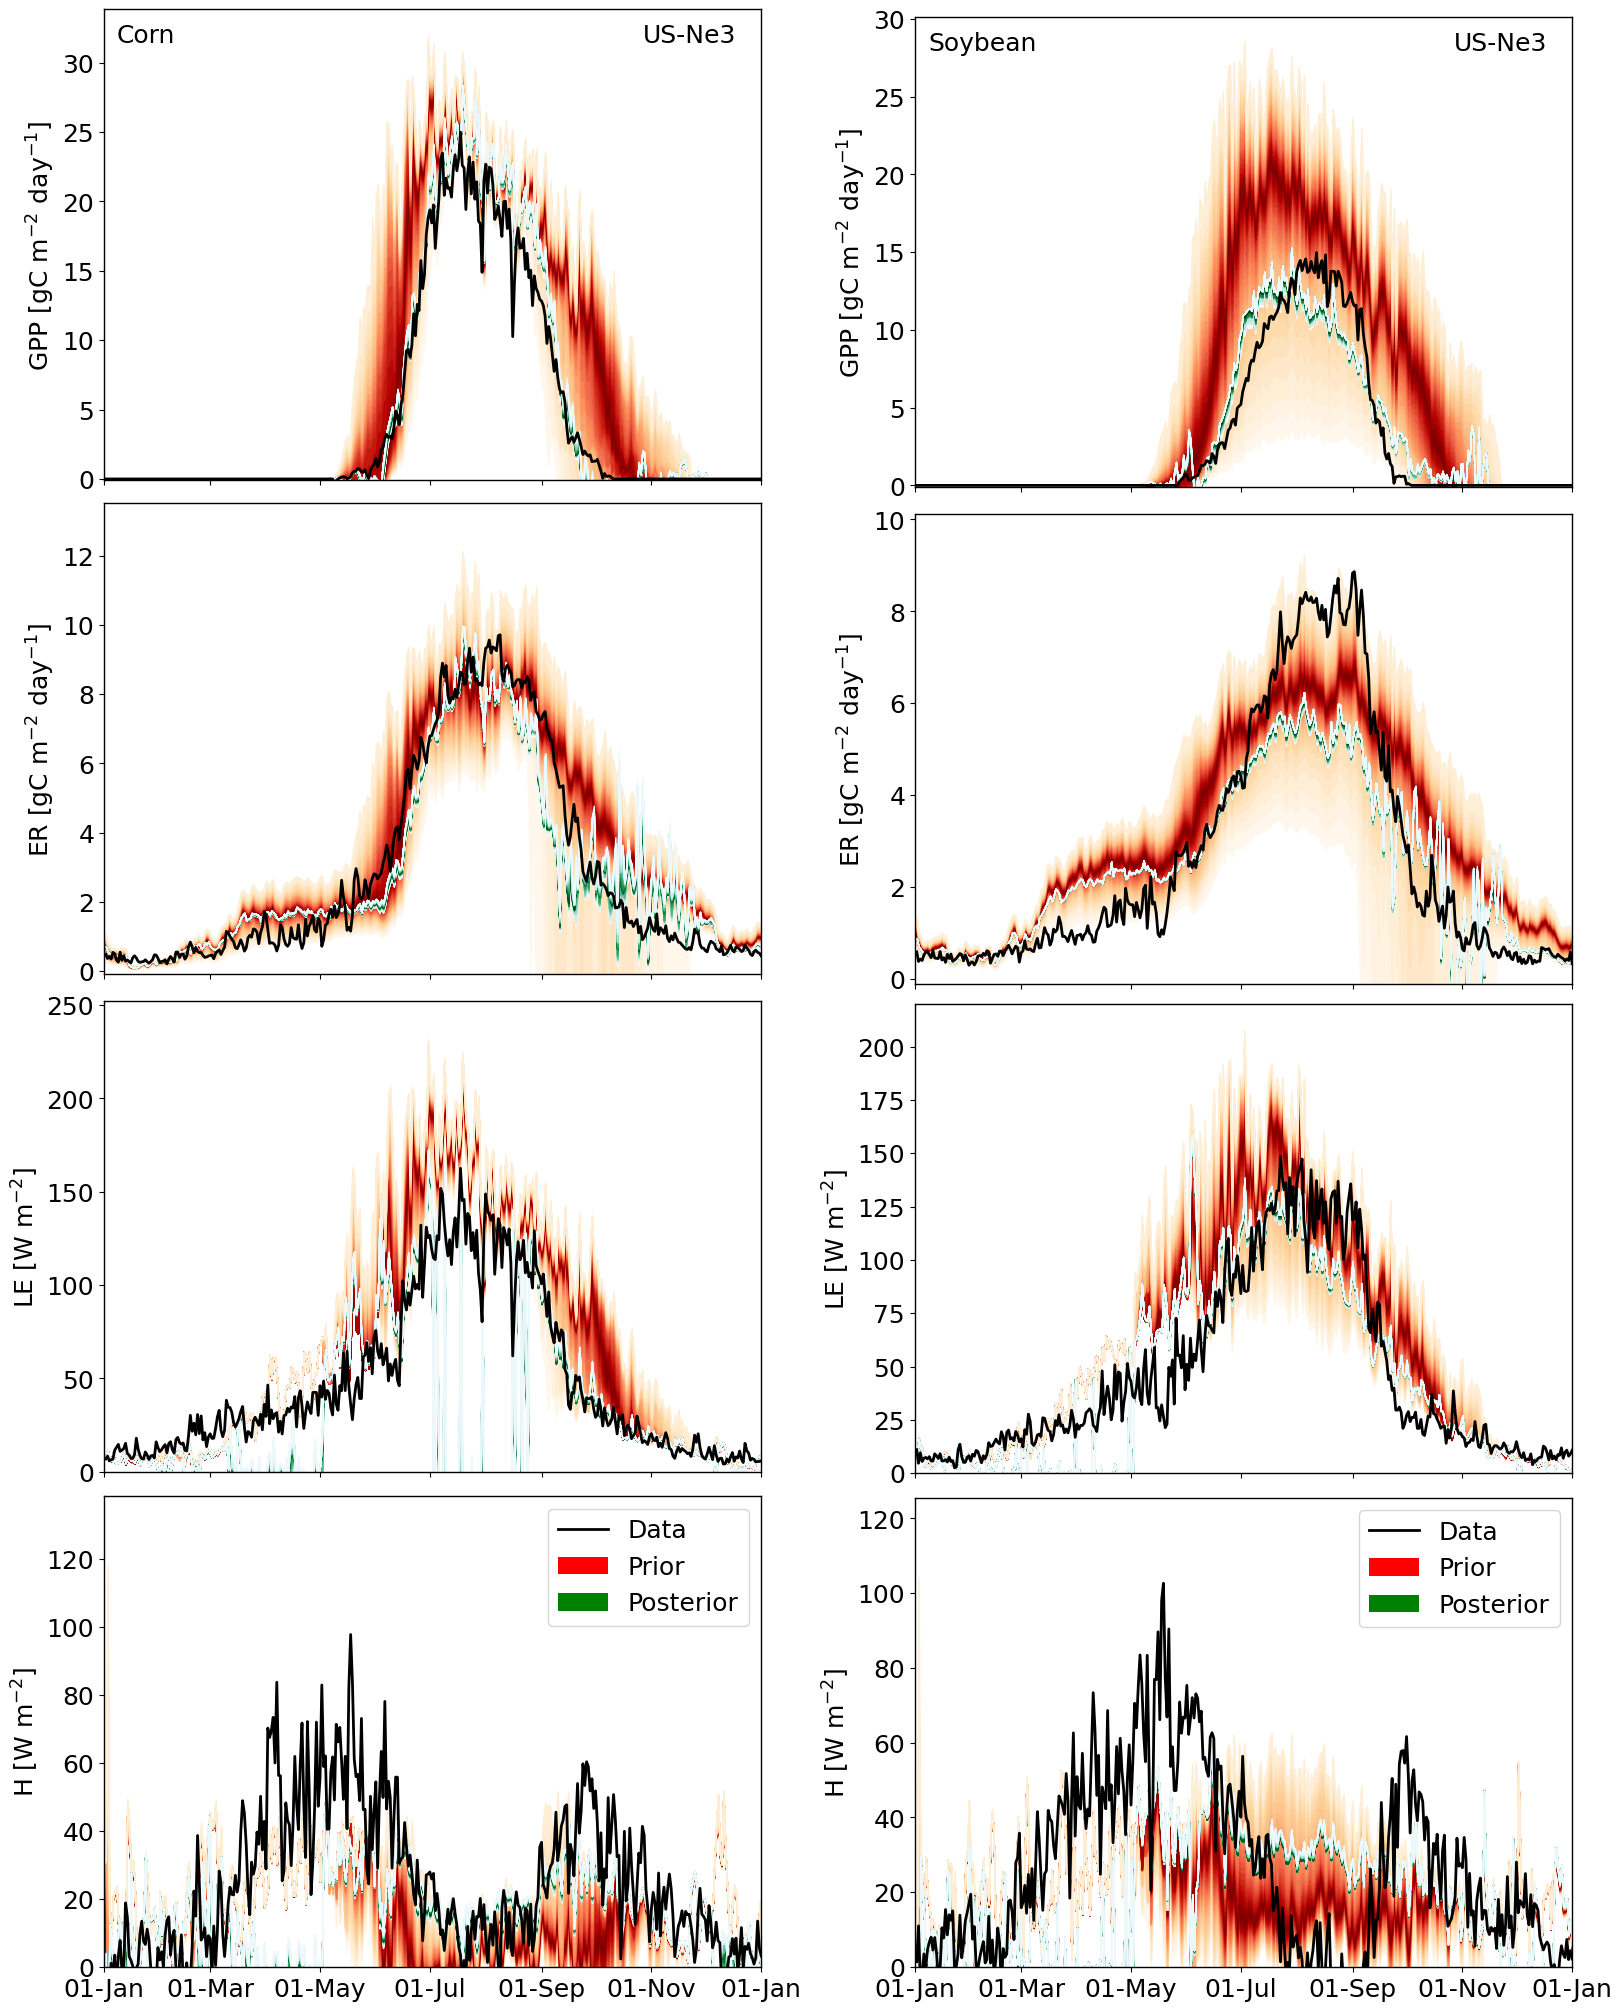
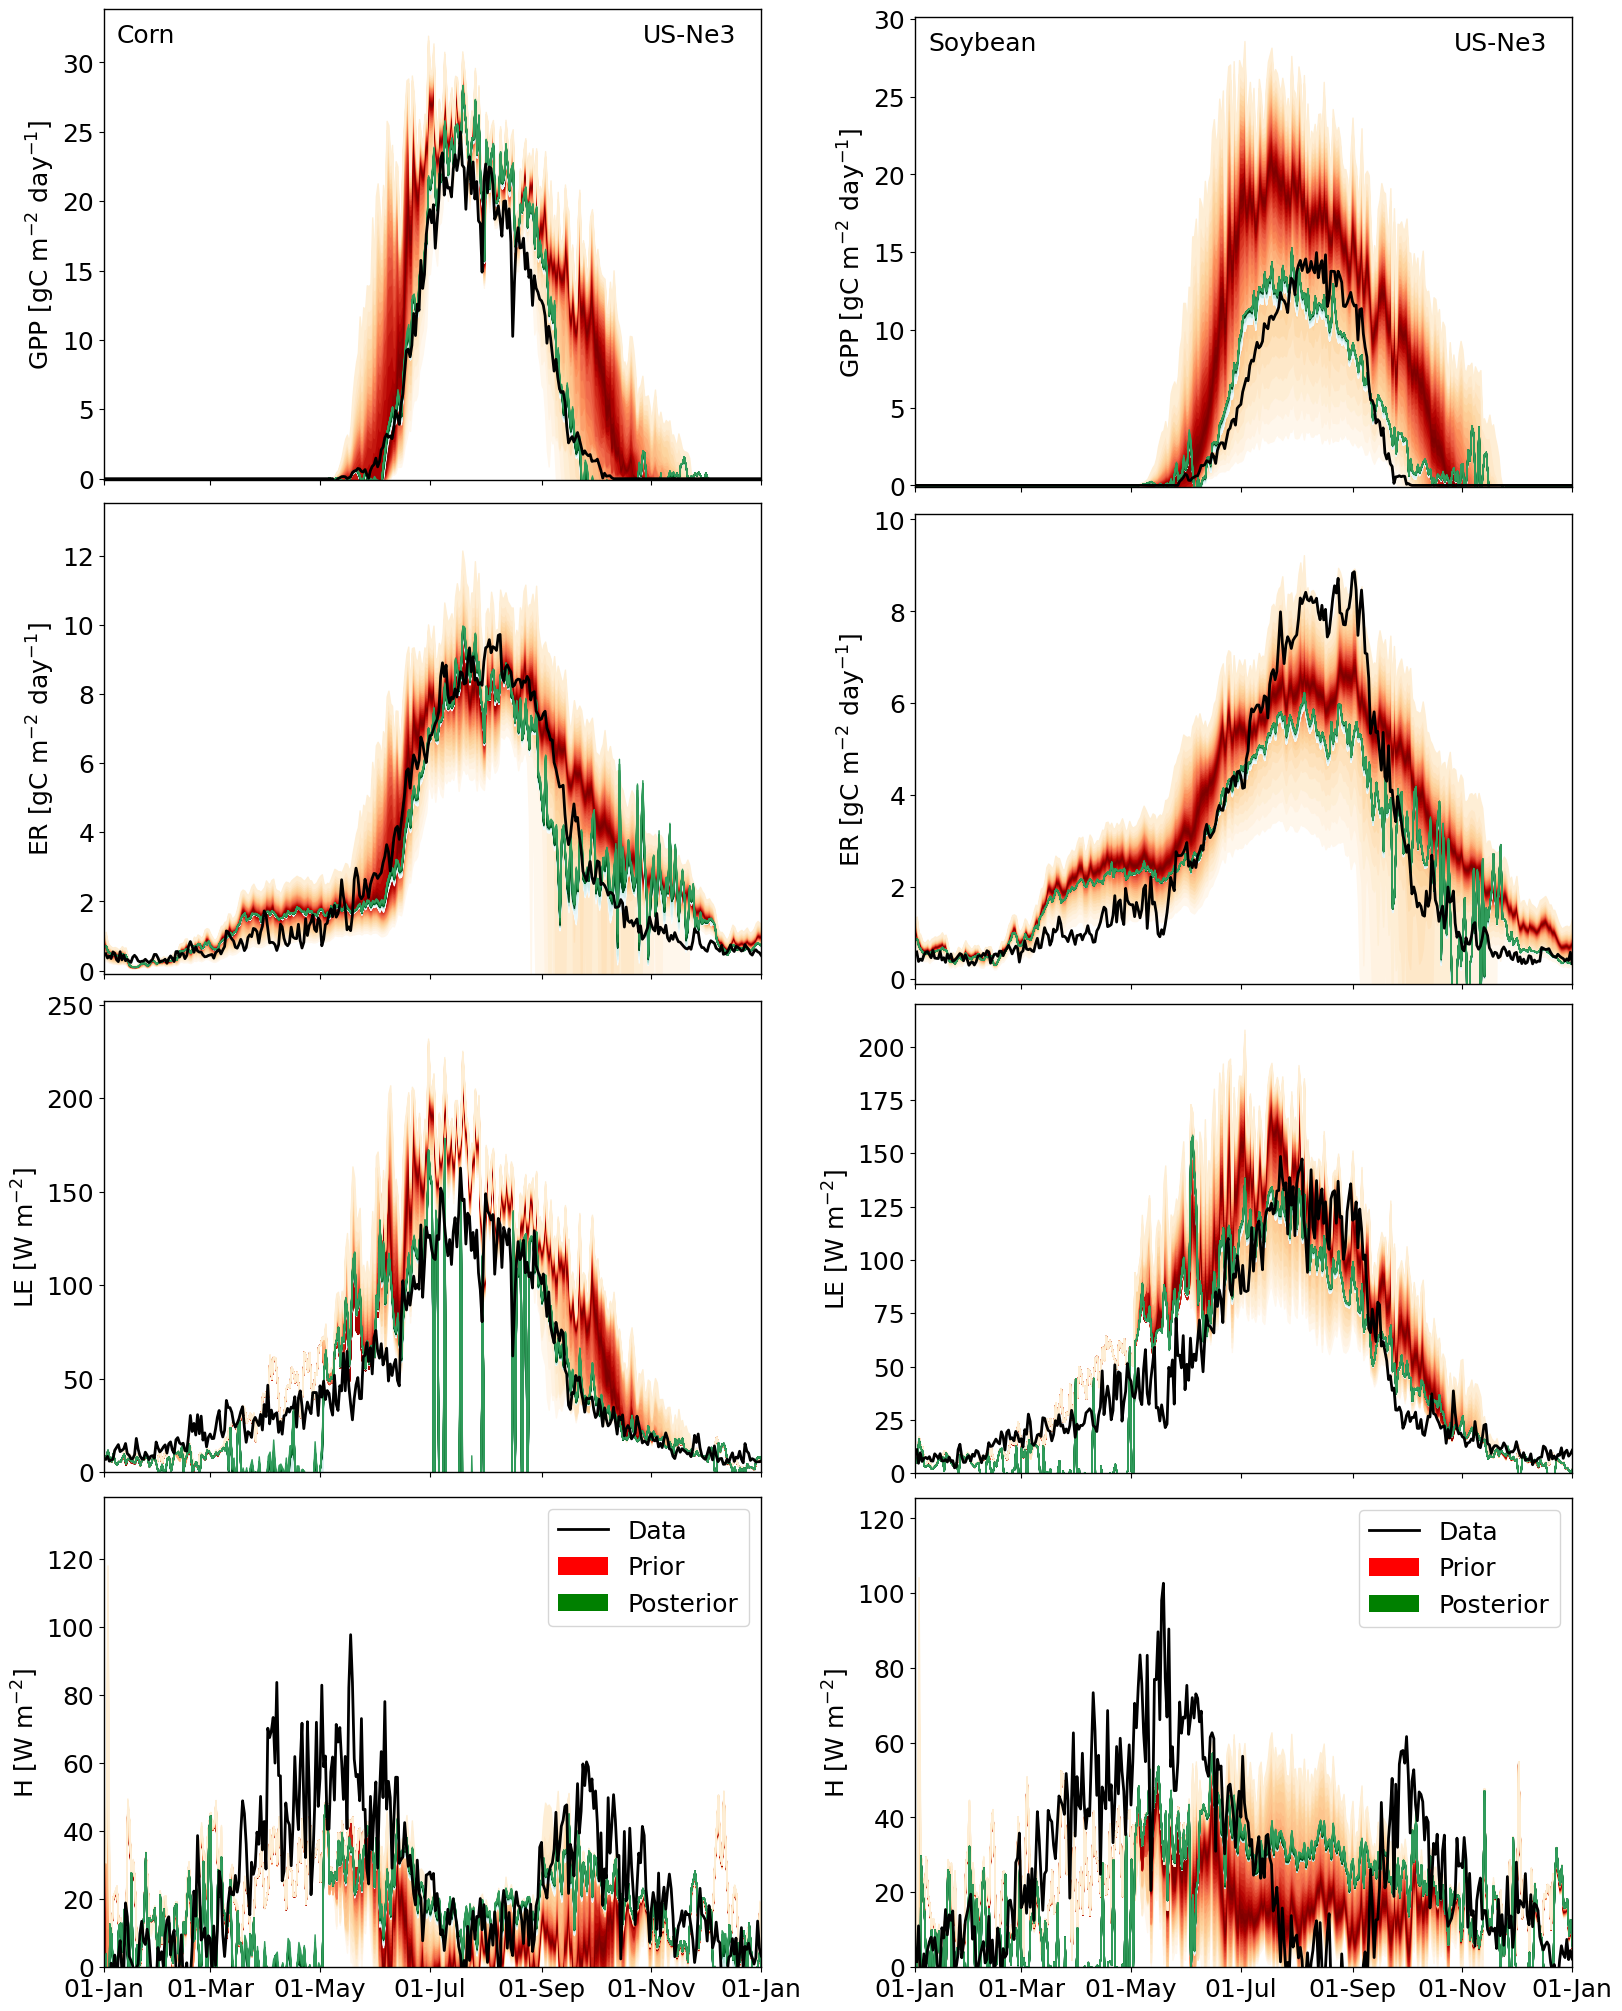
Updated sensitivity analysis plots and calibration plots with different colors

diff --git a/workflow/subplots_sensbar.py b/workflow/subplots_sensbar.py
@@ -1,0 +1,126 @@
+#!/usr/bin/env python
+
+import os
+import numpy as np
+import pandas as pd
+import seaborn as sns
+import pickle as pk
+import matplotlib.pyplot as plt
+import matplotlib as mpl
+mpl.use('Agg')
+import matplotlib.dates as mdates
+from matplotlib.dates import DateFormatter
+from optparse import OptionParser
+
+
+import utils as mu
+
+parser = OptionParser();
+
+parser.add_option("--site", dest="site", default="", \
+                  help="Site ID")
+parser.add_option("--crop", dest="crop", default="", \
+                  help="Modeled crop name")
+
+(options, args) = parser.parse_args()
+
+#----------------------------------------------------------
+
+############################################################
+############################################################
+############################################################
+# should be run after elm_fates/run_wibcs.py
+############################################################
+############################################################
+############################################################
+
+plt.rc('figure', titlesize=15)
+plt.rc('legend', fontsize=15, title_fontsize=15)
+plt.rc('axes',   labelsize=15, titlesize=15)
+plt.rc('xtick',  labelsize=15)
+plt.rc('ytick',  labelsize=15)
+
+# ---------------------------------------------------------
+os.chdir('../site_calib_outputs/')
+
+results_all = pk.load(open(options.site + '_' + options.crop + '_' + 'results_all.pk', 'rb'))
+
+nout = len(results_all)
+dim = 12
+
+myDict = {'GPP': 365, 'ER': 730, 'LE': 1095, 'H': 1460}
+
+for ind, key in enumerate(myDict):
+
+    ind_plot=np.arange(myDict[key]-365,myDict[key]) # change this to (0,365) for one variable, (365, 730) for two variables, and (730, 1095) when 3 variables
+
+    pars = range(dim)
+    nout_plot = len(ind_plot)
+    cases = np.arange(nout_plot)
+
+    pnames = mu.read_textlist('pnames.txt', dim)
+    outnames = [str(j+1) for j in range(nout_plot)]
+
+    all_totsens = np.zeros((nout_plot, dim))
+    all_mainsens = np.zeros((nout_plot, dim))
+    for i in range(nout_plot):
+        iout = ind_plot[i]
+        print("================================================================")
+        print("Output %d / %d" % (iout + 1, nout))
+        print("================================================================")
+        if results_all[iout] is not None:
+            #print(results_all[iout].keys())
+            mindex = results_all[iout]['mindex']
+            pccf = results_all[iout]['cfs']
+            a, b = mu.encode_mindex(mindex)
+            # for i, j in zip(a, b):
+            #     print(i, j)
+
+            mainsens, totsens, jointsens, mean, var = mu.pce_sens('LU',
+                                                                  mindex,
+                                                                  pccf,
+                                                                  mv=True)
+
+            all_totsens[i, :] = totsens
+            all_mainsens[i, :] = mainsens
+
+    #colors = ut.set_colors(22)
+    cmap = plt.get_cmap('tab20')
+    colors = np.array([cmap(j) for j in np.arange(dim)/(dim-1)])
+
+    if (ind == len(myDict)-1):
+        xtick_labels = True
+    else:
+        xtick_labels = False
+
+    df = pd.DataFrame(all_mainsens, columns=pnames)
+    df = pd.melt(df, var_name='pnames')
+    df['QoI'] = key
+
+    if(ind == 0):
+       df_plot = df
+    else:
+       # Combine into in a single dataframe
+       df_plot = pd.concat([df_plot, df], axis=0)
+
+# make bar plot
+g = sns.catplot(data=df_plot, x='pnames', y='value', row='QoI',  kind='bar', palette=colors, height=3, aspect=2)
+
+# Rotate xtick labels
+g.set_xticklabels(labels=pnames, rotation=90)
+
+# Modify axis labels
+for i, ax in enumerate(g.axes.flat):
+   if ax.get_title():
+      ax.set_ylabel(ax.get_title().split('=')[1] + ' - Sensitivity')
+
+      if(i == 0):
+         ax.text(0.02, 0.93, options.crop, color='black', fontsize=15, transform=ax.transAxes)
+         ax.text(0.85, 0.93, options.site, color='black', fontsize=15, transform=ax.transAxes)
+
+   ax.set_xlabel('') # remove x axis label
+
+# Remove facet titles
+g.set_titles(row_template='')
+
+plt.savefig('../figures/' + options.site + '_' + options.crop + '_' + 'sensbar_main_all.png', bbox_inches='tight')

diff --git a/workflow/merge_images.py b/workflow/merge_images.py
@@ -63,6 +63,12 @@ myDict_merge_2images_horiz = {'fig_SA_US-Ne3.png':                {'im1':'US-Ne3
                                                                    'im2':'US-Ro1_Soybean_sens_main_all.png'},
                               'fig_SA_US-UiC.png':                {'im1':'US-UiC_Corn_sens_main_all.png',
                                                                    'im2':'US-UiC_Soybean_sens_main_all.png'},
+                              'fig_SA_US-Ne3_NEW.png':            {'im1':'US-Ne3_Corn_sensbar_main_all.png',
+                                                                   'im2':'US-Ne3_Soybean_sensbar_main_all.png'},
+                              'fig_SA_US-Ro1_NEW.png':            {'im1':'US-Ro1_Corn_sensbar_main_all.png',
+                                                                   'im2':'US-Ro1_Soybean_sensbar_main_all.png'},
+                              'fig_SA_US-UiC_NEW.png':            {'im1':'US-UiC_Corn_sensbar_main_all.png',
+                                                                   'im2':'US-UiC_Soybean_sensbar_main_all.png'},
                               'fig_US-Ne3_calibration.png':       {'im1':'US-Ne3_Corn_fit_shade.png',
                                                                    'im2':'US-Ne3_Soybean_fit_shade.png'},
                               'fig_US-Ro1_calibration.png':       {'im1':'US-Ro1_Corn_fit_shade.png',

diff --git a/workflow/subplots_shade.py b/workflow/subplots_shade.py
@@ -180,7 +180,7 @@ for i, key in enumerate(myDict):
                   prior_output[:, ind_plot].T, cmap=cm.OrRd, grid_show=True)
     if post_out_flag:
         plot_shade(thisax, xdata,
-                  post_output[:, ind_plot].T, grid_show=True)
+                  post_output[:, ind_plot].T, nq=21, grid_show=True)
 
 
     #thisax.set_xticks(xdata)

diff --git a/README.md b/README.md
@@ -71,9 +71,9 @@ Use the following scripts found in the `workflow` directory to reproduce the fig
 ## Figures
 
 ### Site-scale calibration & validation
-1. [Sensitivity analysis plot for US-Ne3](figures/fig_SA_US-Ne3.png)
-2. [Sensitivity analysis plot for US-Ro1](figures/fig_SA_US-Ro1.png)
-3. [Sensitivity analysis plot for US-UiC](figures/fig_SA_US-UiC.png)
+1. [Sensitivity analysis plot for US-Ne3](figures/fig_SA_US-Ne3_NEW.png)
+2. [Sensitivity analysis plot for US-Ro1](figures/fig_SA_US-Ro1_NEW.png)
+3. [Sensitivity analysis plot for US-UiC](figures/fig_SA_US-UiC_NEW.png)
 4. [Model calibration comparing observed vs. modeled fluxes for US-Ne3](figures/fig_US-Ne3_calibration.png)
 5. [Model calibration comparing observed vs. modeled fluxes for US-Ro1](figures/fig_US-Ro1_calibration.png)
 6. [Model calibration comparing observed vs. modeled fluxes for US-UiC](figures/fig_US-UiC_calibration.png)
